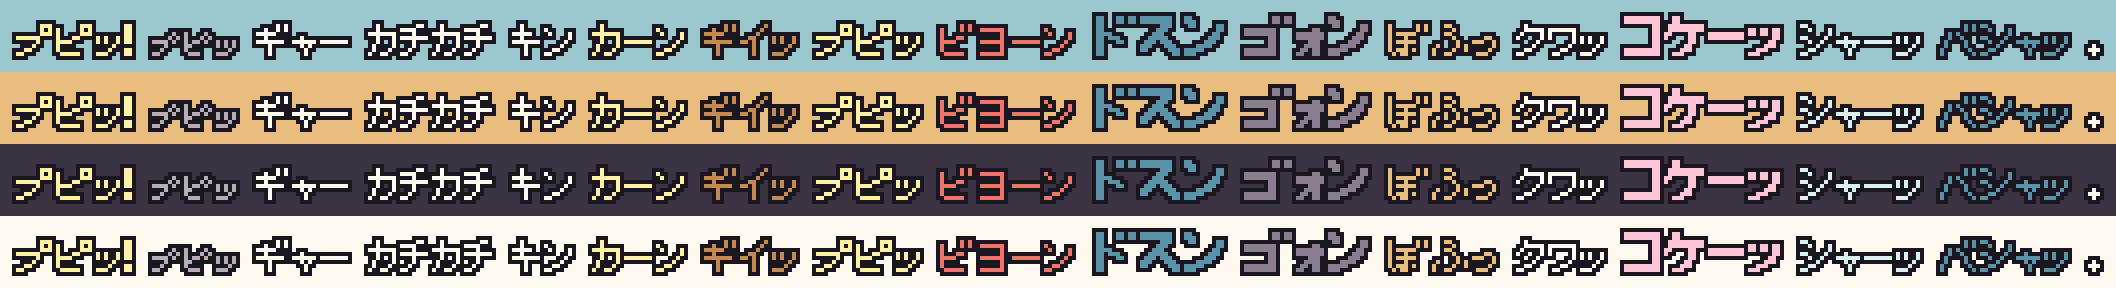
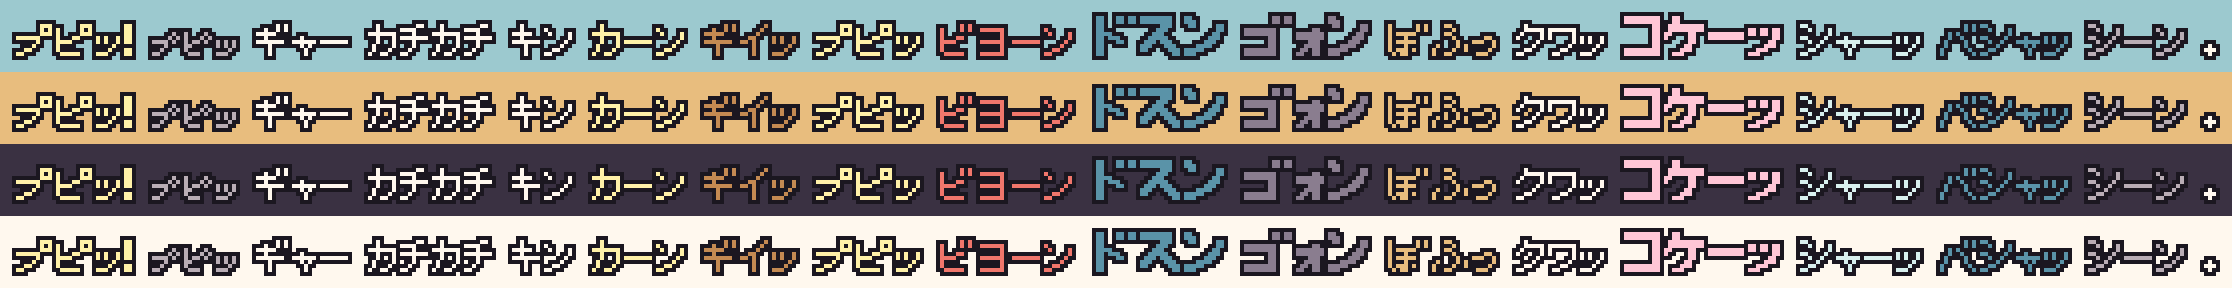
feat(park_fountain): show シーン when the fountain water stops (#601)
Both bundle-1 runs missed that the water had stopped after duck_alarm:
the jets are faint dotted arcs, so turning them off changes little.
Adds shiin_text (シーン, lint, 8px) over the statue right after
fountain.water_off. Reuses existing glyphs, no new art cells.

diff --git a/src/core/fx.ts b/src/core/fx.ts
@@ -57,6 +57,7 @@ export const FX_STYLE: Readonly<Record<string, { color: FxColor; height: number 
   kokee_text: { color: 'pinkL', height: 10 },
   shaa_text: { color: 'aqua', height: 8 },
   splash_text: { color: 'tealM', height: 8 },
+  shiin_text: { color: 'lint', height: 8 },
 };
 
 /**

diff --git a/docs/design/ability-feedback.md b/docs/design/ability-feedback.md
@@ -73,6 +73,7 @@
 | `kokee_text` | `コケーッ` | `pinkL` | 10 | `park_fountain` 늦게 우는 닭 자명종(엔딩 반전의 신호). 시그니처 색(빨강·청록·노랑)과 안 겹치는 분홍, 크게 |
 | `shaa_text` | `シャーッ` | `aqua` | 8 | `park_fountain` 진입(`onEnter`) 물줄기 소리(9절, ADR-0003 규칙 4). 물빛이지만 `ドスン`(`tealM`)과 명도가 멀다. 배경 소리라 크게 하지 않는다. 2026-11-20 추가(#477) |
 | `splash_text` | `バシャッ` | `tealM` | 8 | `park_fountain` S2 7번(물 켜짐 ズッシー × 재킷): 돔 위로 날아간 비둘기가 물보라에 맞는 순간(#802, `park_fountain-s2.md` 3절). 하늘(`aqua`) 앞이라 진한 물빛으로 칠한다(명도 차 101). `ドスン`과 색이 같지만 같은 화면에서 뜨는 자리(흙길 / 돔 위)와 크기(10 / 8)가 다르다. 글자는 Kai 초안 그대로. 2026-11-23 추가 |
+| `shiin_text` | `シーン` | `lint` | 8 | `park_fountain` S2 3번★(`duck_alarm`) 물줄기가 꺼진 직후 동상 머리 위(`statue` 기준점)에 뜬다. Mia 묶음 1 두 회차 모두 "물이 멈춘 걸 알아채기 어려웠다"(#601): 물줄기가 원래 흐린 점선이라 꺼져도 차이가 작았다. 진입 `シャーッ`(aqua)의 짝으로 소리가 멎었다는 걸 글자로 말한다. 뒤가 진한 나무라 밝은 회색. 글자 칸 0(シ·ー·ン 8px 재사용). 글자는 Kai 확인 대상. 2026-11-23 추가 |
 
 - 글자는 **픽셀 그림 시트**로 만든다(32색 규칙, 캔버스에 그림). 브라우저 글꼴로 캔버스에 쓰면 테두리가 흐려지고 32색 밖의 색이 생긴다. 시트는 Luna가 `art/`에 만든다: 원본 `art/ui/fx-text.mjs` → `public/ui/fx-text.png` + `fx-text.json`(`cells`: fx 이름 → 칸 `[x, y, w, h]`), 기준점은 칸 아래 가운데 `(floor(w/2), h)`. 칸 = 글자 속 + 외곽선(ink, 8방향) 1px라서 칸 높이 = 표의 높이 + 2. `キン` 옆 반짝은 fx가 아닌 부품 칸 `ting_spark`(5×5)다. 미리보기: `docs/design/art/fx-text-preview-4x.png`(바탕 4종). 단어가 15개뿐이라(`park_fountain` 5개 포함, 2026-11-20) 글자 단위가 아니라 **단어 단위**로 그린다(가타카나 글꼴 세트를 만들지 않는다).
 - 시트가 들어오기 전 FE 임시 그림: 지금 `drawSpark`를 그대로 쓴다. 대신 fx마다 칠 색은 위 표대로 바꾸면 "다른 fx"인 것은 보인다. 재플레이는 시트가 들어온 뒤에 한다.
